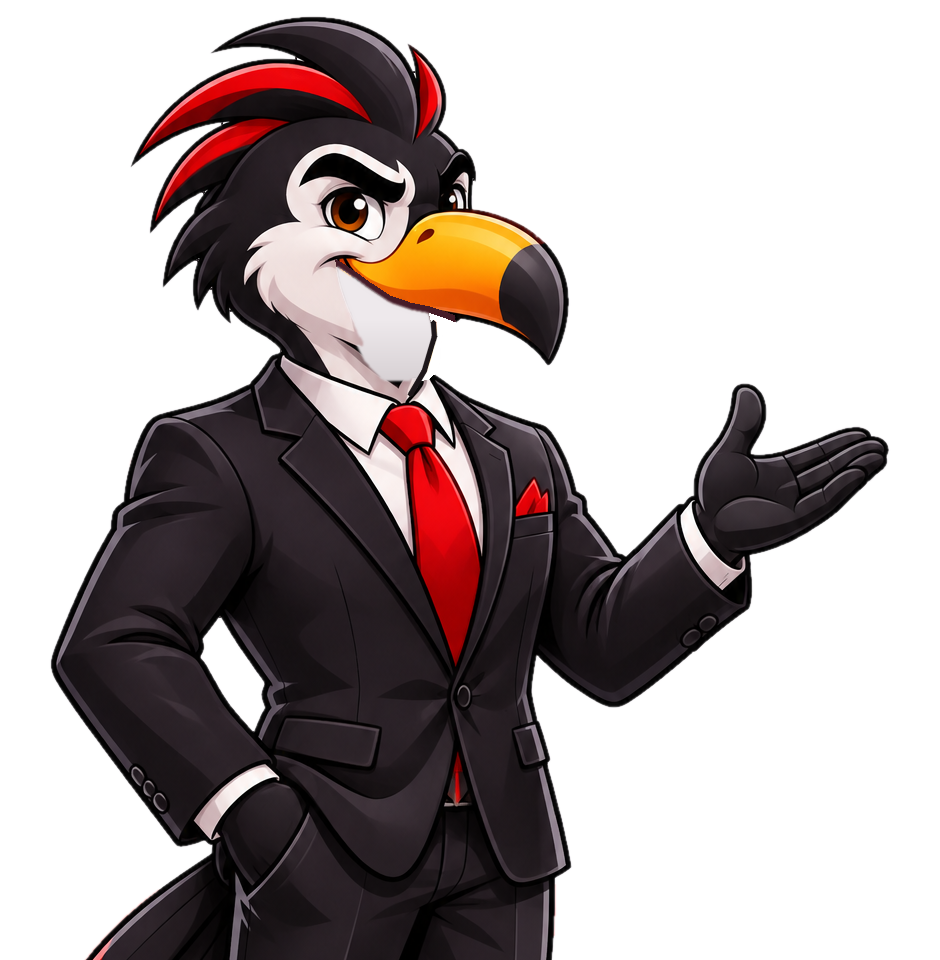
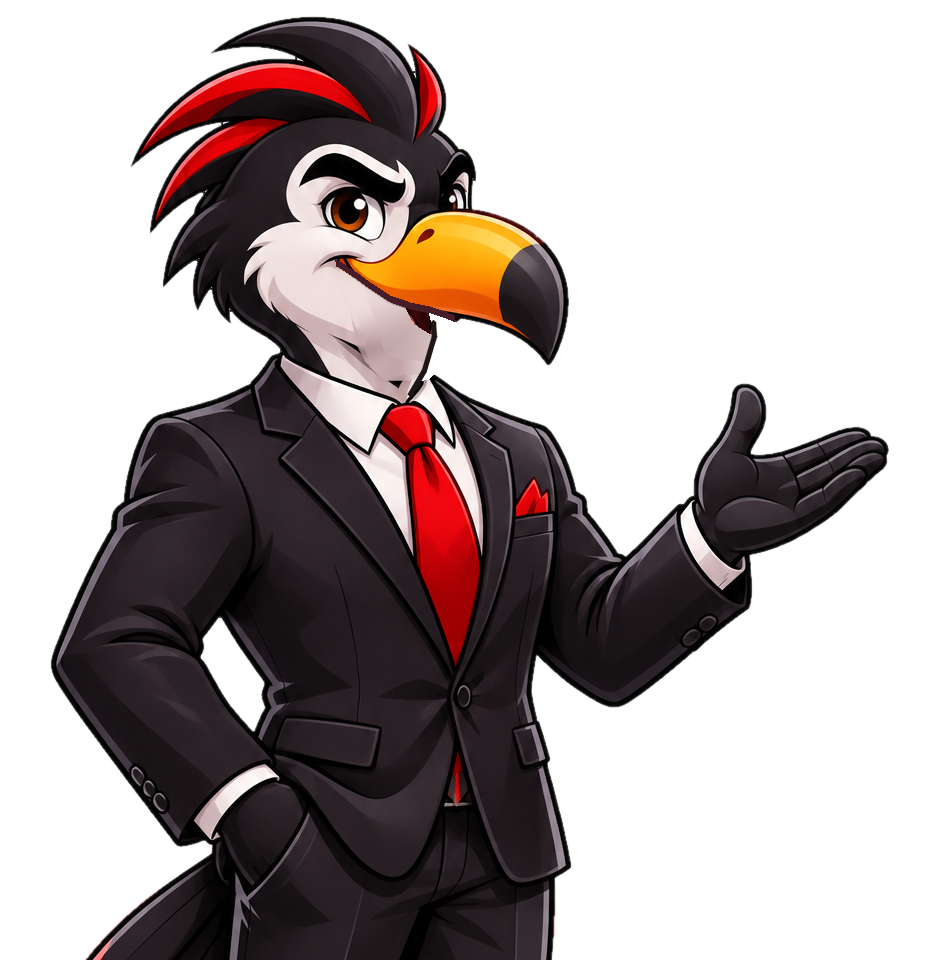
Mascote: queixo e pálpebra preenchidos com a própria pena (sem cor chapada), borda da mandíbula sem fio claro, olho de trás fecha com as penas da cabeça
Claude-Session: https://claude.ai/code/session_01RJX3irjzV3PaF8TSYHx1o1

Changed region(s): [[0.3702, 0.3125, 0.4628, 0.4062]]

diff --git a/video/mascote/preparar_mascote.py b/video/mascote/preparar_mascote.py
@@ -37,7 +37,7 @@ SOBRANCELHA = [(356, 152), (390, 141), (430, 150), (462, 166), (478, 186), (474,
 PIVO_SOBRANCELHA = (360, 168)
 OLHO_ESQ_POLI = [(379, 204), (384, 196), (396, 189), (412, 187), (426, 190), (438, 196), (448, 203), (453, 212),
                  (450, 224), (442, 234), (430, 240), (416, 238), (402, 231), (390, 221), (382, 211)]
-OLHO_DIR_POLI = [(510, 186), (520, 183), (528, 188), (531, 198), (529, 210), (520, 213), (511, 210), (508, 198)]
+OLHO_DIR_POLI = [(506, 185), (520, 181), (531, 185), (537, 196), (535, 212), (520, 215), (508, 211), (504, 198)]
 OLHO_ESQ = dict(c=(413, 213), r=(31, 20), ang=5, cor=(234, 231, 236))
 OLHO_DIR = dict(c=(518, 200), r=(11, 10), ang=0, cor=(44, 42, 48))
 BRACO_A, BRACO_B = (690, 548), (705, 685)
@@ -79,11 +79,25 @@ def suave(x):
     return x * x * (3 - 2 * x)
 
 
+def preencher(img, desconhecido, conhecido, sigma):
+    """Preenche a área 'desconhecido' com as cores vizinhas 'conhecido' (pena e sombra continuam iguais)."""
+    out = img.astype(np.float32).copy()
+    k = conhecido.astype(np.float32) * (~desconhecido)
+    for sg in (sigma, sigma * 2, sigma * 4):        # 3 passadas: perto primeiro, depois mais longe
+        num = cv2.GaussianBlur(out[..., :3] * k[..., None], (0, 0), sg)
+        den = cv2.GaussianBlur(k, (0, 0), sg)[..., None]
+        cheio = num / np.maximum(den, 1e-4)
+        ok = (den[..., 0] > 0.02) & desconhecido & (k < 0.5)
+        out[ok, :3] = cheio[ok]
+        k = np.maximum(k, ok.astype(np.float32))
+    return out.astype(np.uint8)
+
+
 def olho_fechado(img_bgra, poli, dil=2, cor_fixa=None):
     """Reconstrói a pele por cima do olho (interpolando, coluna a coluna, a pena de cima e a de baixo).
     Devolve recorte: x0, y0, máscara, pele (BGRA), topo[x], fundo[x]."""
     xs, ys = zip(*poli)
-    x0, y0, x1, y1 = min(xs) - 6, min(ys) - 6, max(xs) + 7, max(ys) + 7
+    x0, y0, x1, y1 = min(xs) - 14, min(ys) - 10, max(xs) + 15, max(ys) + 14
     m = np.zeros((y1 - y0, x1 - x0), np.uint8)
     cv2.fillPoly(m, [np.array([(x - x0, y - y0) for x, y in poli], np.int32)], 1)
     m = cv2.dilate(m, np.ones((2 * dil + 1, 2 * dil + 1), np.uint8))
@@ -94,16 +108,21 @@ def olho_fechado(img_bgra, poli, dil=2, cor_fixa=None):
         yy = np.where(m[:, x])[0]
         if len(yy):
             topo[x], fundo[x] = yy.min(), yy.max()
-    # cor da pálpebra: a pena logo abaixo do olho (anel inferior), com sombra leve no alto
-    anel = cv2.dilate(m, np.ones((7, 7), np.uint8)) & ~cv2.dilate(m, np.ones((3, 3), np.uint8)).astype(bool)
-    yy_, xx_ = np.mgrid[0:h, 0:w]
-    baixo = anel.astype(bool) & (yy_ > h * 0.55) & (reg[..., 3] > 200)
-    cor = np.median(reg[baixo][:, :3], axis=0) if baixo.sum() > 5 else np.array([236, 233, 238], np.float32)
-    if cor_fixa is not None:
-        cor = np.array(cor_fixa, np.float32)
-    g = np.clip((yy_ - topo.clip(0)[None, :]) / max(1, h * 0.5), 0, 1)[..., None]
-    pele = np.dstack([cor[None, None, :] * (0.86 + 0.14 * g), reg[..., 3:]]).astype(np.float32)
-    return dict(x0=x0, y0=y0, mask=m, pele=pele.astype(np.uint8), topo=topo, fundo=fundo)
+    hsv = cv2.cvtColor(reg[..., :3].astype(np.uint8), cv2.COLOR_BGR2HSV)
+    if cor_fixa is not None:   # olho de trás: pálpebra feita das penas pretas em volta
+        pena = (hsv[..., 2] < 95) & (reg[..., 3] > 200)
+        pele = preencher(reg, m.astype(bool), pena & ~cv2.dilate(m, np.ones((3, 3), np.uint8)).astype(bool), 2.0).astype(np.float32)
+    else:
+        pena = (hsv[..., 2] > 150) & (hsv[..., 1] < 70) & (reg[..., 3] > 200)
+        pele = preencher(reg, m.astype(bool), pena & ~cv2.dilate(m, np.ones((3, 3), np.uint8)).astype(bool), 3.0).astype(np.float32)
+        pele[..., :3] *= 0.97                          # pálpebra um tiquinho mais escura que a pena
+    fora = np.zeros(m.shape, np.uint8)
+    if cor_fixa is not None:   # parte do olho de trás que passa do contorno da cabeça some ao fechar (em rampa)
+        xs_ = np.arange(w)[None, :] + x0
+        ys_ = np.arange(h)[:, None] + y0
+        borda_x = 530 + (ys_ - 186) * 0.2            # contorno da cabeça (levemente inclinado)
+        fora = (np.clip((xs_ - borda_x) / 4.0, 0, 1) * m * 255).astype(np.uint8)
+    return dict(x0=x0, y0=y0, mask=m, pele=pele.astype(np.uint8), topo=topo, fundo=fundo, fora=fora)
 
 
 def main(caminho):
@@ -138,7 +157,11 @@ def main(caminho):
     lim = np.zeros((h, w), np.uint8); cv2.fillPoly(lim, [np.array(MANDIBULA_LIMITE, np.int32)], 1)
     m_bin = (cv2.dilate(mand, np.ones((3, 3), np.uint8)) & lim).astype(bool)
     m_bin |= (lim > 0) & (yy > linha(BICO_BORDA, xx) - 5) & (yy < linha(BICO_BORDA, xx) + 10) & (xx > 398)
-    m_alfa = cv2.GaussianBlur(cv2.dilate(m_bin.astype(np.uint8), np.ones((3, 3), np.uint8)).astype(np.float32), (0, 0), 0.45)
+    m_dil = cv2.dilate(m_bin.astype(np.uint8), np.ones((3, 3), np.uint8)).astype(bool)
+    borda_m = m_dil & ~cv2.erode(m_dil.astype(np.uint8), np.ones((5, 5), np.uint8)).astype(bool)
+    claro_m = cv2.cvtColor(base_orig[..., :3], cv2.COLOR_BGR2GRAY) > 150
+    m_dil &= ~(borda_m & claro_m & (yy > linha(BICO_BORDA, xx) + 3))      # sem fio claro na borda
+    m_alfa = cv2.GaussianBlur(m_dil.astype(np.float32), (0, 0), 0.6)
     mandibula = np.dstack([base_orig[..., :3], (np.clip(m_alfa, 0, 1) * base_orig[..., 3]).astype(np.uint8)])
     mand = m_bin.astype(np.uint8)
 
@@ -153,10 +176,12 @@ def main(caminho):
     sobra = abaixo & (queixo == 0) & (xx > 470) & (xx < 545) & (yy > 300) & (yy < linha(COLARINHO, xx) - 2)
     base[sobra & ~cv2.dilate(lugar.astype(np.uint8), np.ones((3, 3), np.uint8)).astype(bool) & ~perto_borda, 3] = 0
     base[perto_borda & lugar, :3] = (40, 28, 70)   # interior escuro da boca (BGR)
-    tom = np.clip((yy - 320) / 75, 0, 1)
-    cor = np.stack([236 - 30 * tom, 233 - 30 * tom, 238 - 28 * tom], -1)
-    k = cv2.GaussianBlur(pena.astype(np.float32), (0, 0), 1.0)[..., None]
-    base[..., :3] = (base[..., :3] * (1 - k) + cor * k).astype(np.uint8)
+    hsv_b = cv2.cvtColor(base[..., :3], cv2.COLOR_BGR2HSV)
+    pena_px = (hsv_b[..., 2] > 140) & (hsv_b[..., 1] < 70) & (base[..., 3] > 200)
+    conhecido = pena_px & ~cv2.dilate(lugar.astype(np.uint8), np.ones((5, 5), np.uint8)).astype(bool)
+    cheio = preencher(base, pena, conhecido, 4.0)
+    k = cv2.GaussianBlur(pena.astype(np.float32), (0, 0), 0.8)[..., None]
+    base[..., :3] = (base[..., :3] * (1 - k) + cheio[..., :3] * k).astype(np.uint8)
     base[ar, 3] = 0
     pts = (np.array(QUEIXO_BORDA, np.float32) * 16).astype(np.int32)
     cv2.polylines(base, [pts], False, CONTORNO + (255,), 4, cv2.LINE_AA, shift=4)
@@ -191,6 +216,9 @@ def main(caminho):
     dol = cv2.distanceTransform((1 - olho).astype(np.uint8), cv2.DIST_L2, 5)
     w_olho = suave(1 - dol / 10.0)
 
+    ot = np.zeros((h, w), np.uint8); cv2.fillPoly(ot, [np.array(OLHO_DIR_POLI, np.int32)], 1)
+    dot = cv2.distanceTransform((1 - ot).astype(np.uint8), cv2.DIST_L2, 5)
+    w_ot = suave(1 - dot / 5.0)
     x0, y0, x1, y1 = RECORTE
     c = lambda m: m[y0:y1, x0:x1].astype(np.float16)
     cv2.imwrite(os.path.join(SAIDA, "base.png"), base[y0:y1, x0:x1])
@@ -198,18 +226,18 @@ def main(caminho):
     cv2.imwrite(os.path.join(SAIDA, "bico_sup.png"), bico_sup[y0:y1, x0:x1])
     olhos = {}
     for nome, poli in (("esq", OLHO_ESQ_POLI), ("dir", OLHO_DIR_POLI)):
-        o = olho_fechado(base_orig, poli, cor_fixa=(24, 21, 27) if nome == "dir" else None)
+        o = olho_fechado(base_orig, poli, dil=3 if nome == "esq" else 2, cor_fixa=(24, 21, 27) if nome == "dir" else None)
         for k_, v_ in o.items():
             olhos[f"{nome}_{k_}"] = np.array(v_) - (x0 if k_ == "x0" else y0 if k_ == "y0" else 0)
     np.savez_compressed(os.path.join(SAIDA, "olhos.npz"), **olhos)
-    np.savez_compressed(os.path.join(SAIDA, "pesos.npz"), cabeca=c(w_cab), braco=c(w_bra), sobrancelha=c(w_sob), olho=c(w_olho),
+    np.savez_compressed(os.path.join(SAIDA, "pesos.npz"), cabeca=c(w_cab), braco=c(w_bra), sobrancelha=c(w_sob), olho=c(w_olho), olho_tras=c(w_ot),
                         acima_bico=c(cv2.GaussianBlur((~abaixo).astype(np.float32), (0, 0), 0.8)))
     rel = lambda p: [p[0] - x0, p[1] - y0]
     olho = lambda o: dict(c=rel(o["c"]), r=list(o["r"]), ang=o["ang"], cor=list(o["cor"]))
     json.dump(dict(tamanho=[x1 - x0, y1 - y0], pivo_cabeca=rel(PIVO_CABECA), pivo_braco=rel(PIVO_BRACO),
                    dobradica=rel(DOBRADICA), regiao_boca=[300 - x0, 200 - y0, 640 - x0, 430 - y0],
                    regiao_braco=[560 - x0, 340 - y0, 1000 - x0, 800 - y0],
-                   angulo_fechado=20.0, pivo_sobrancelha=rel(PIVO_SOBRANCELHA), centro_olho=rel((415, 213)), olho_esq=olho(OLHO_ESQ), olho_dir=olho(OLHO_DIR)),
+                   angulo_fechado=20.0, pivo_sobrancelha=rel(PIVO_SOBRANCELHA), centro_olho=rel((415, 213)), olho_tras_y=[183 - y0, 211 - y0], olho_esq=olho(OLHO_ESQ), olho_dir=olho(OLHO_DIR)),
               open(os.path.join(SAIDA, "rig.json"), "w"), indent=1)
     print("rig salvo em", SAIDA)
 

diff --git a/video/mascote/boneco.py b/video/mascote/boneco.py
@@ -25,17 +25,20 @@ class Boneco:
         self.w_cab, self.w_bra = rs(p["cabeca"]), rs(p["braco"])
         self.w_sob = rs(p["sobrancelha"]) if "sobrancelha" in p else None
         self.w_olho = rs(p["olho"]) if "olho" in p else None
+        self.w_ot = rs(p["olho_tras"]) if "olho_tras" in p else None
         self.bico_sup = cv2.resize(cv2.imread(os.path.join(pasta, "bico_sup.png"), cv2.IMREAD_UNCHANGED), (W, H),
                                    interpolation=cv2.INTER_AREA)
         ol = np.load(os.path.join(pasta, "olhos.npz"))
         self.olhos_rec = []
         for nome in ("esq", "dir"):
-            d = {k: ol[f"{nome}_{k}"] for k in ("x0", "y0", "mask", "pele", "topo", "fundo")}
+            d = {k: ol[f"{nome}_{k}"] for k in ("x0", "y0", "mask", "pele", "topo", "fundo", "fora")}
+            d["tras"] = nome == "dir"
             if s != 1.0:
                 hh, ww = d["mask"].shape
                 nw, nh = max(2, int(ww * s)), max(2, int(hh * s))
                 d["mask"] = cv2.resize(d["mask"], (nw, nh), interpolation=cv2.INTER_NEAREST)
                 d["pele"] = cv2.resize(d["pele"], (nw, nh), interpolation=cv2.INTER_AREA)
+                d["fora"] = cv2.resize(d["fora"], (nw, nh), interpolation=cv2.INTER_NEAREST)
                 xs = np.linspace(0, ww - 1, nw)
                 d["topo"] = np.interp(xs, np.arange(ww), d["topo"]) * s
                 d["fundo"] = np.interp(xs, np.arange(ww), d["fundo"]) * s
@@ -52,6 +55,7 @@ class Boneco:
         self.ang_fechado = rig["angulo_fechado"]
         self.piv_sob = [v * s for v in rig.get("pivo_sobrancelha", [300, 168])]
         self.c_olho = [v * s for v in rig.get("centro_olho", [355, 213])]
+        self.ot_y = [v * s for v in rig.get("olho_tras_y", [183, 211])]
         self.olhos = []
         for k in ("olho_esq", "olho_dir"):
             o = rig[k]
@@ -101,6 +105,11 @@ class Boneco:
         reg = img[y0:y0 + h, x0:x0 + w].astype(np.float32)
         p = pele.astype(np.float32)
         reg[..., :3] = reg[..., :3] * (1 - k) + p[..., :3] * k
+        if d["tras"]:
+            fo = cv2.GaussianBlur(d["fora"].astype(np.float32) / 255.0, (0, 0), 0.8)[..., None]
+            reg[..., 3:] *= (1 - k * fo)
+            img[y0:y0 + h, x0:x0 + w] = reg.astype(np.uint8)
+            return                                    # olho de trás: sem cílio (fica só a pena)
         # cílio: curva da borda, mais grosso no meio, fino nas pontas (desenhado em 4x)
         S = 4
         cam = np.zeros((h * S, w * S), np.uint8)
@@ -178,6 +187,17 @@ class Boneco:
         else:
             sx, sy = tx.copy(), ty.copy()
         sx, sy = self._expressao(sx, sy, sob_y, sob_rot, olho_esc)
+        b_ = min(1, max(0, piscada))
+        if False and self.w_ot is not None and b_ > 0.02:
+            # olho de trás: achata para a linha de baixo; a pena de cima desce como pálpebra
+            h_, w_ = self.w_ot.shape
+            ix = np.clip(sx + 0.5, 0, w_ - 1).astype(np.int32); iy = np.clip(sy + 0.5, 0, h_ - 1).astype(np.int32)
+            wt = self.w_ot[iy, ix]
+            yc = self.ot_y[1] - 2 * self.s
+            esc = max(0.08, 1 - 0.92 * b_)
+            alvo = np.maximum(yc + (sy - yc) / esc, self.ot_y[0] + 1 * self.s)
+            alvo = np.where(sy < yc, alvo, sy)
+            sy = sy + wt * (alvo - sy)
         mx[:L], my[:L] = sx, sy
         # antebraço
         if abs(braco) > 0.01:
